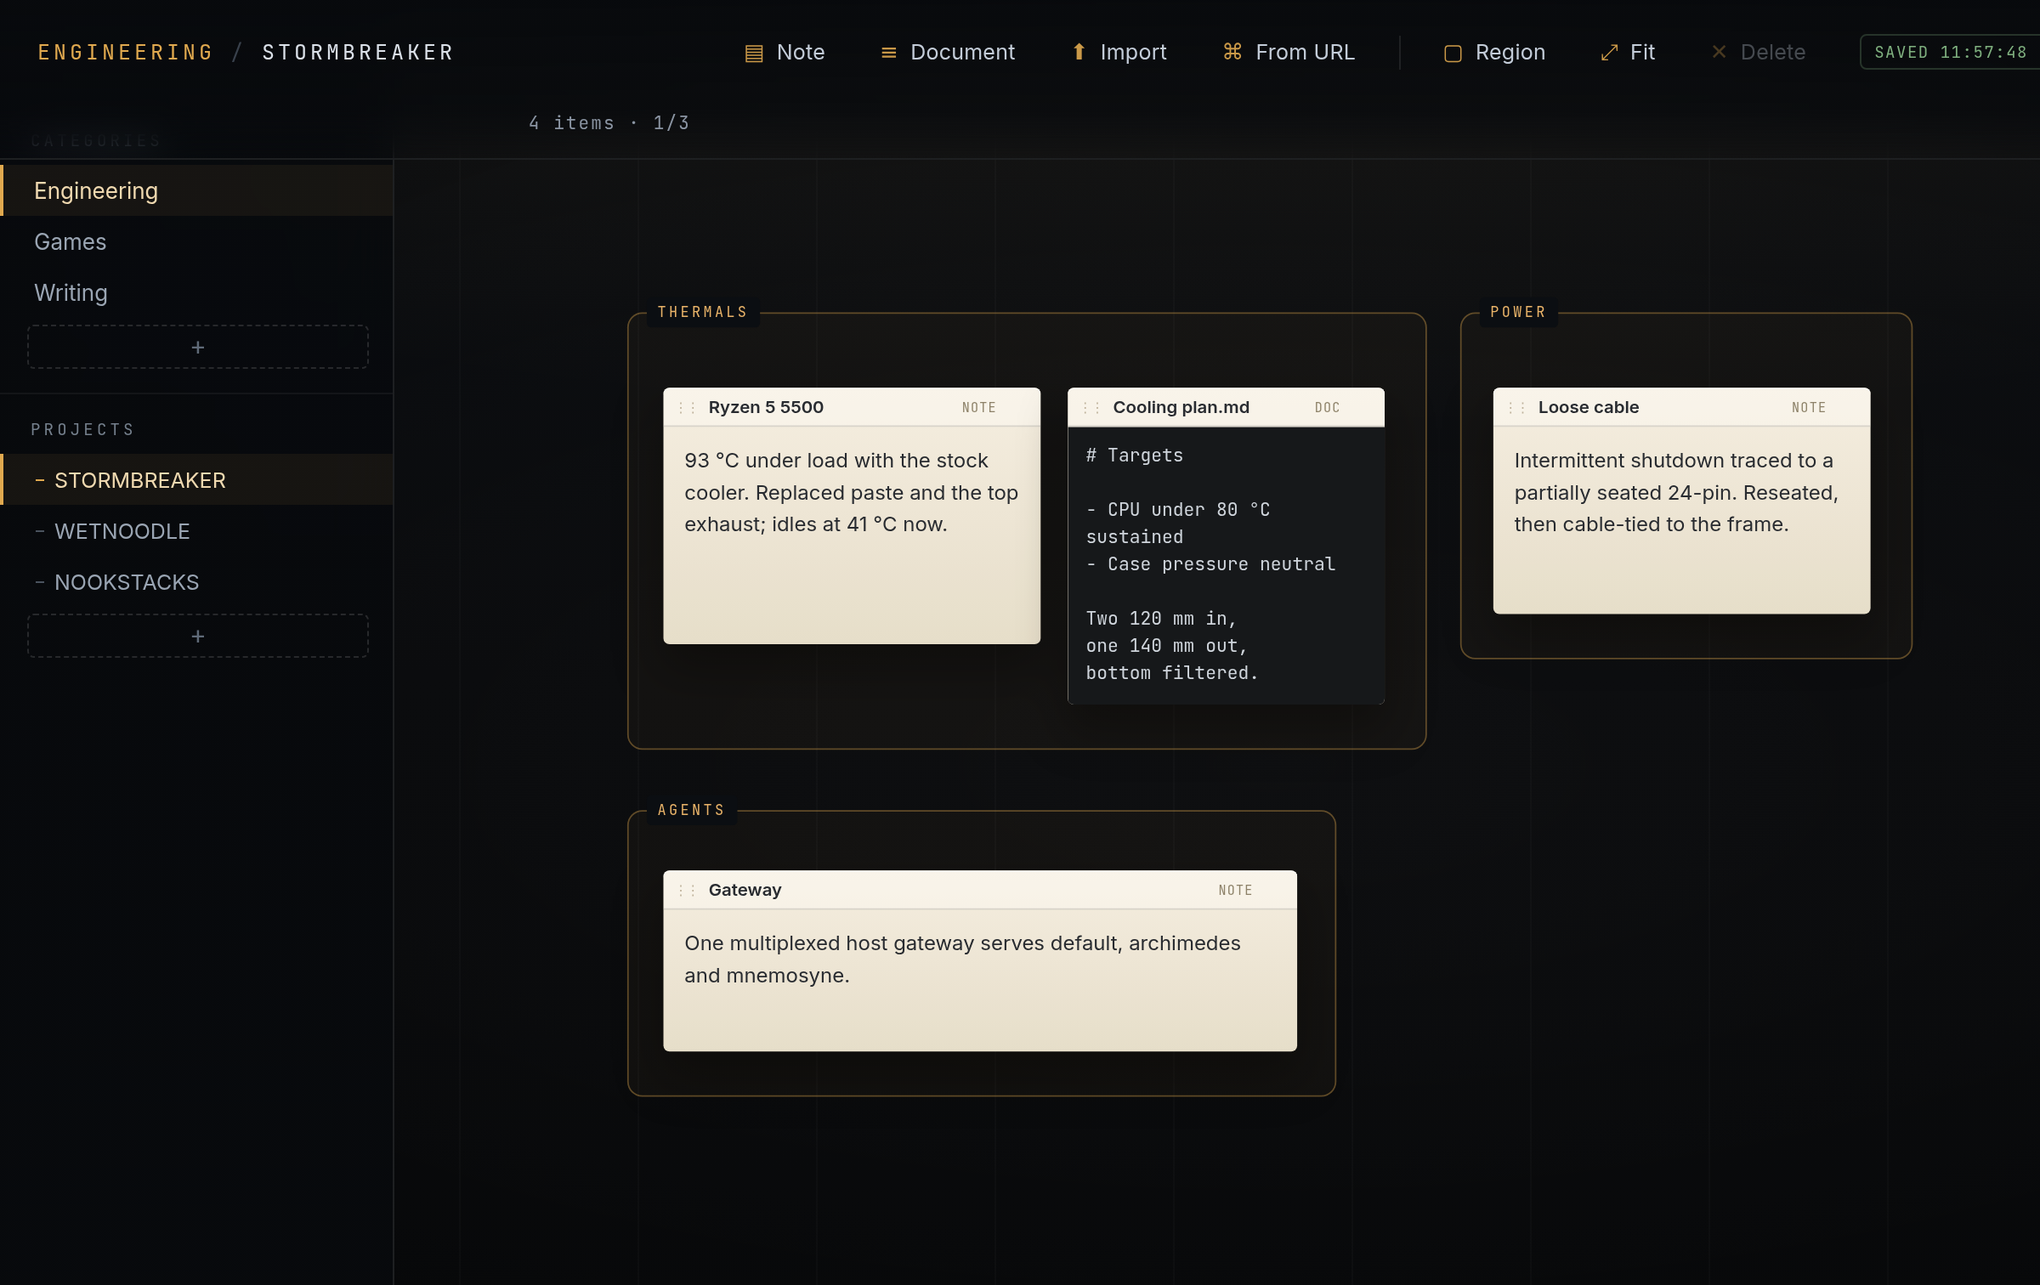
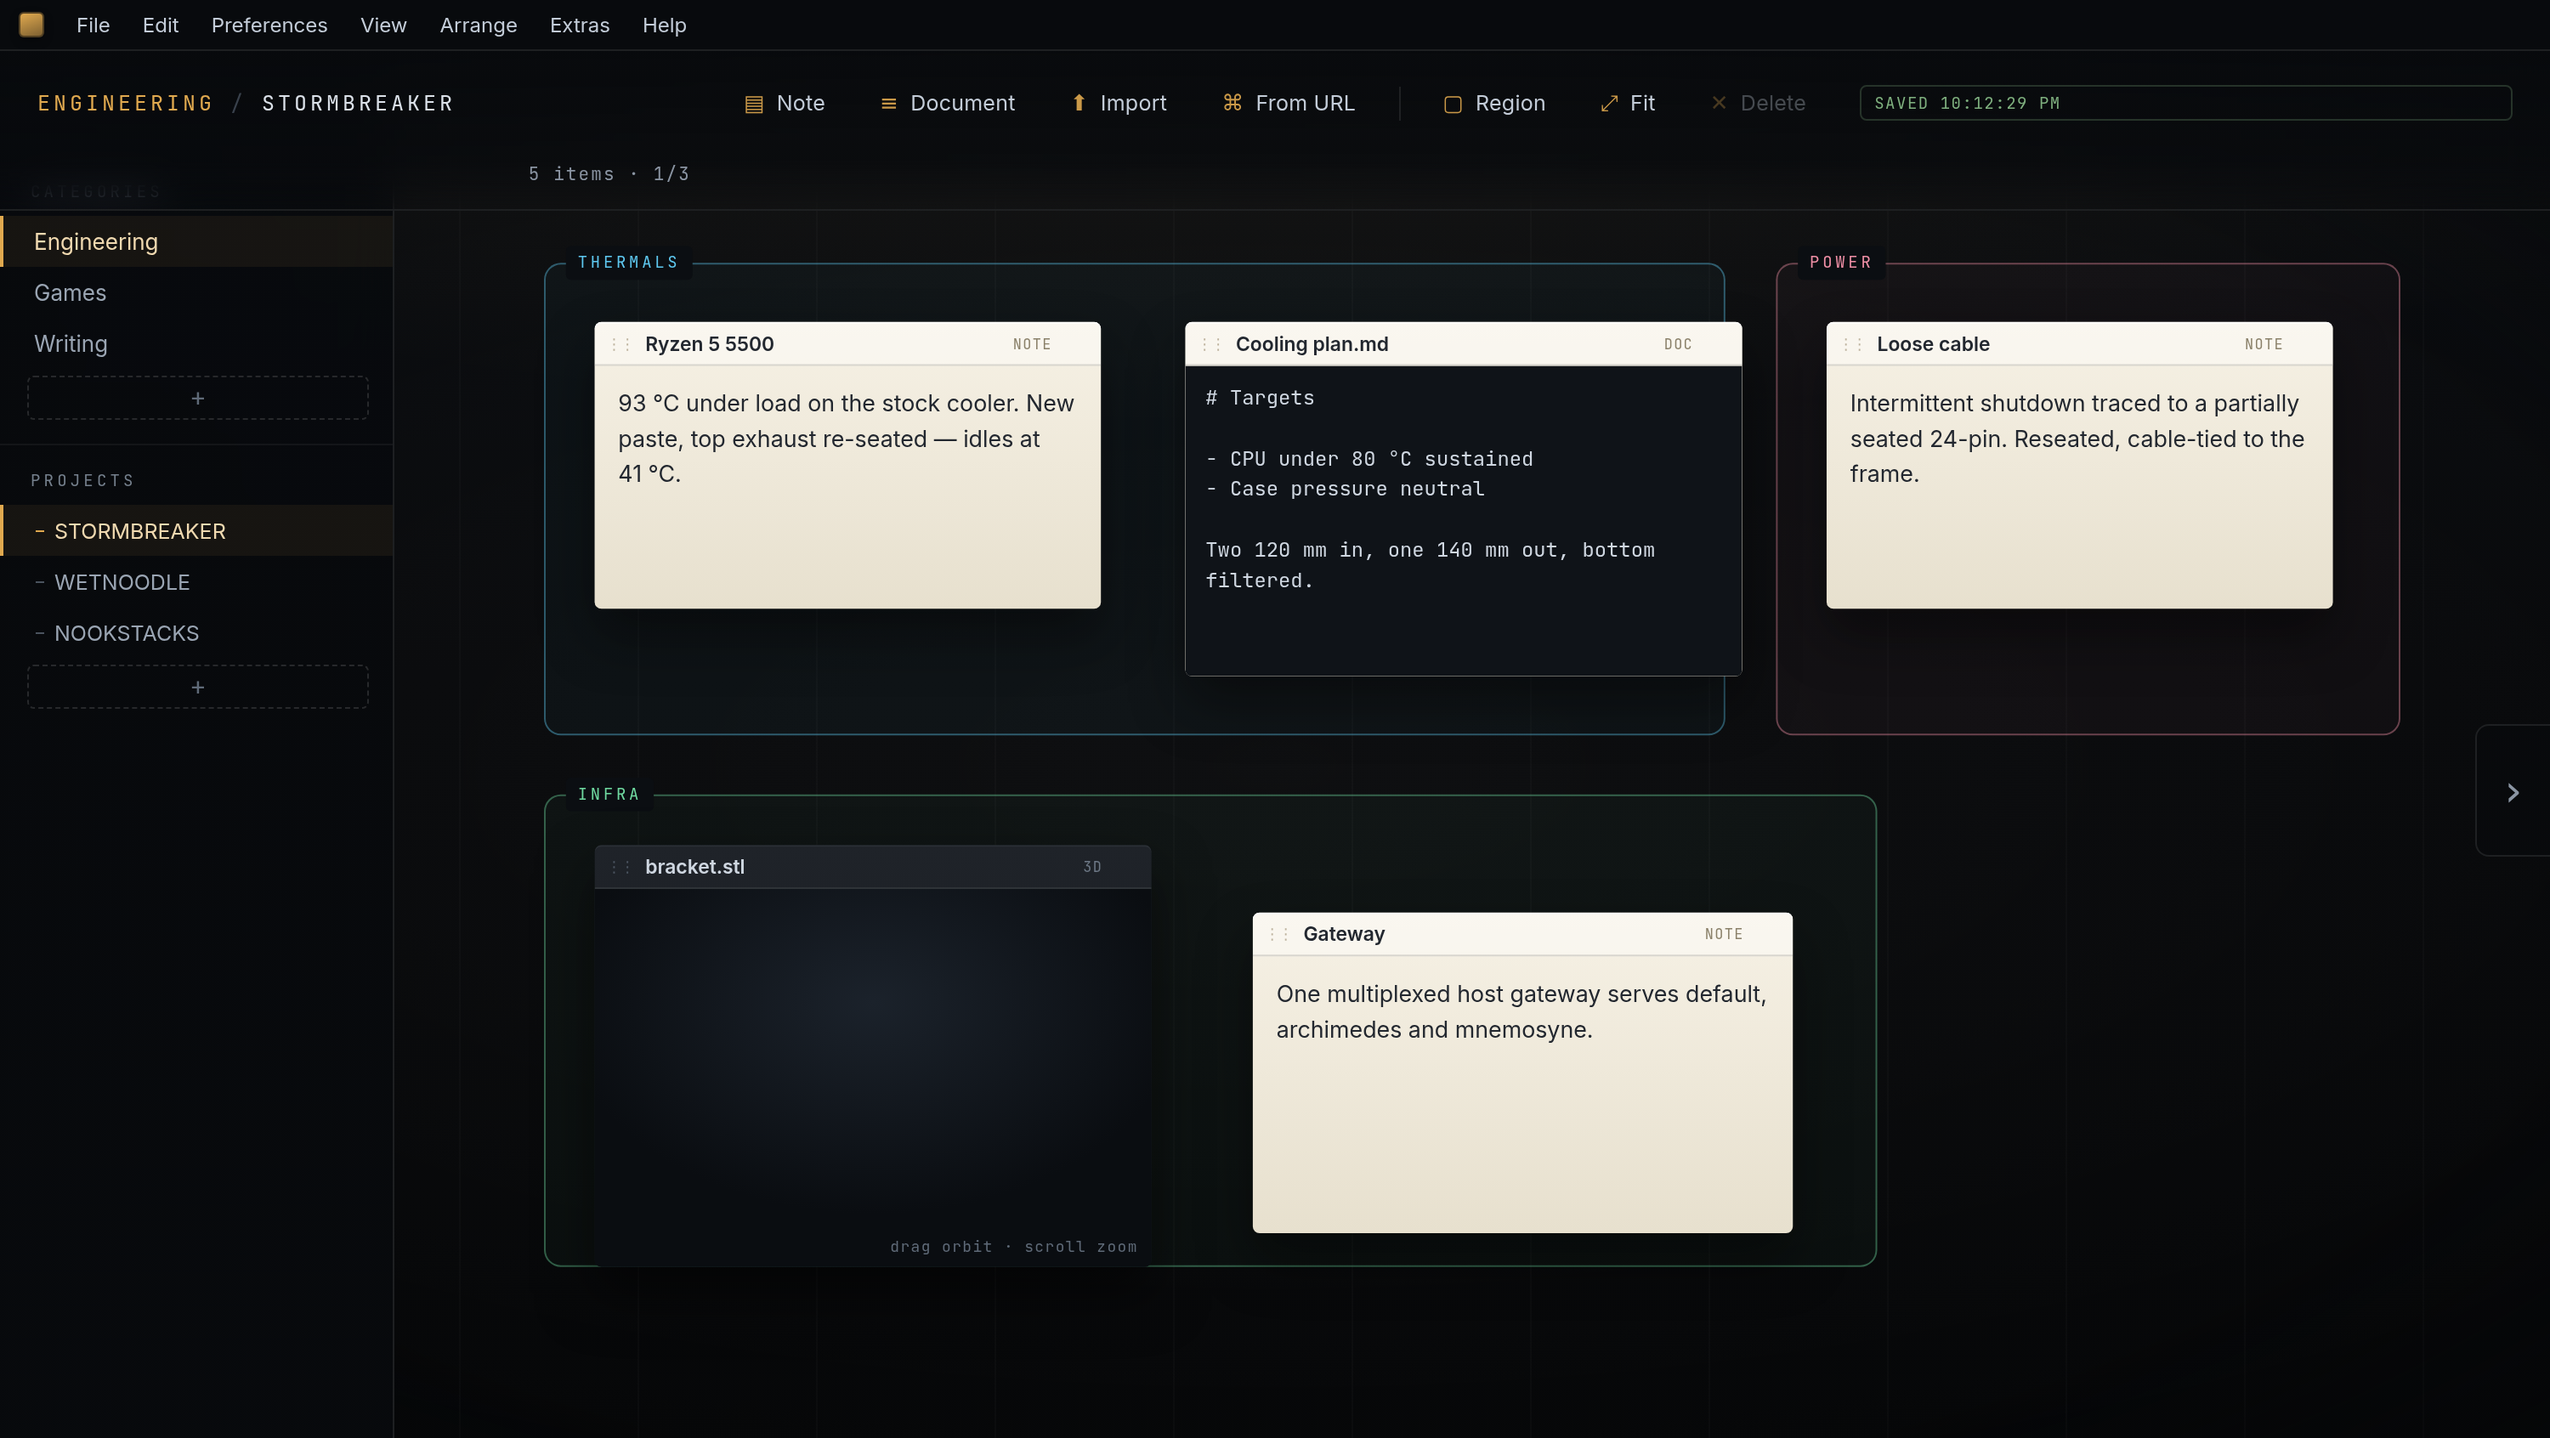
README: short and sweet, with screenshots
Cut the README from 228 lines to ~90: what it is, what's in it, regions, themes,
keys, install, build, data, licence. Refreshed the hero, themes and settings
screenshots against the current build and dropped the ones that no longer matched.

diff --git a/README.md b/README.md
@@ -1,227 +1,88 @@
 # Nookstacks
 
-![Nookstacks](docs/screenshot.png)
+A quiet place to put everything you're building.
 
-A tower of project bookshelves. Each category is a level, each level holds projects, each project is an infinite board where you place documents — notes, code, PDFs, images, video, 3D models — anywhere, at any size, and edit the text ones in place.
+Categories stack into projects, projects open onto an infinite board, and the board
+holds whatever the work actually is — notes, documents, drawings, PDFs, 3D models,
+audio, links, and the coloured regions that group them.
 
-Local only. No account, no sync service, no telemetry. Your board is a directory on your disk that you can back up, copy between machines, or open with a text editor.
+![The board](docs/screenshot.png)
 
-Windows and Linux.
+## What's in it
 
-## Install
+- **Cards for anything** — notes, markdown documents, images, PDFs, audio, video, 3D models (STL/OBJ) and plain files, each with the viewer it deserves.
+- **Regions** — coloured frames that group part of a board. They sit *behind* their contents, so you work inside one as if it weren't there; drag the tab and the region moves.
+- **Select in bulk** — click, `Ctrl`-click, `Shift`-click, or drag a box over the board. Whatever is selected moves together, cards and regions alike.
+- **Menus built per thing** — a note edits and copies its text, a model frames and wireframes, media plays and loops, a region recolours, the empty board makes new things.
+- **A file, not a service** — one folder of JSON and blobs, autosaved, 40 rolling backups, 80 steps of undo. No account, no sync, no network.
 
-Grab the installer for your system from [Releases](../../releases).
+## Regions
 
-**Windows** — run `Nookstacks_*_x64-setup.exe`. It installs per-user, so no administrator rights are needed. The `.msi` is there if you prefer MSI deployment.
+A region is a coloured frame that groups part of a board — thermals, power, infra.
+It never takes a click, so everything inside stays usable, and its tab is the
+handle: drag it and the region (with anything else selected) moves. Eight colours,
+right-click to pick one.
 
-**Linux** — take the `.AppImage`, make it executable, run it:
-
-```bash
-chmod +x Nookstacks_*.AppImage
-./Nookstacks_*.AppImage
-```
-
-Or use the `.deb` / `.rpm` for your distribution's package manager. Both pull in `libwebkit2gtk-4.1`, which the app renders with.
-
-## Where your data lives
-
-| OS | Path |
-|---|---|
-| Windows | `%APPDATA%\Nookstacks\vault` |
-| Linux | `~/.local/share/Nookstacks/vault` |
-
-Inside is the whole board:
-
-```
-state.json          every level, project, region and document
-state.json.bak      the previous save
-history/            rolling snapshots, the last 40 saves
-blobs/              imported files, one file per import
-```
-
-Saves are atomic — written to a temp file, fsynced, then renamed — so an interrupted write can't corrupt `state.json`. Set `NOOKSTACKS_VAULT=/some/path` to keep the vault somewhere else, such as a synced folder.
-
-## Using it
-
-| | |
-|---|---|
-| `↑` `↓` | change level |
-| `←` `→` | change project |
-| `N` | new note where the cursor is |
-| `G` | draw a region around things |
-| double-click a category or project name | rename it in place — `Enter` keeps, `Esc` cancels |
-| `S` | open settings |
-| `Ctrl+Z` / `Ctrl+Shift+Z` | undo / redo (80 steps) |
-| `Ctrl+C` / `Ctrl+X` / `Ctrl+V` | copy, cut, paste the selected card |
-| `Esc` | close the settings panel, cancel a region, deselect |
-| double-click a note | edit it, click away to save |
-| click + drag on empty board | draw a selection box; everything it touches is selected |
-| drag a region's tab | move that region, and anything else selected with it |
-| `Ctrl` + click a region tab | add the region to the selection |
-| `Ctrl`/`⌘` + click a card | add it to the selection, click again to drop it |
-| `Shift` + click a card | add it to the selection without toggling |
-| `Ctrl+A` | select every card on the board |
-| right-drag on empty board | pan the board |
-| wheel | zoom; over a scrollable document or a model, it scrolls or zooms that instead |
-| double-click a model | nothing — drag to orbit, wheel to zoom |
-
-### Regions
-
-A region is a frame drawn **behind** its contents and it never takes a click, so every card inside one stays fully usable — you can select, drag, edit, right-click and open things inside a region exactly as if it were not there.
-
-The **tab is the handle**: click it to select the region, drag it to move the region (bringing every other selected region and card with it), `Ctrl`-click several tabs to select them together, double-click the tab to rename it, or right-click it for the region menu. The corner handles resize it, and the ✕ or `Delete` removes the selected regions while leaving the cards inside them alone.
-
-Each region carries its own colour. Right-click → **Colour** opens eight swatches — amber, sky, mint, rose, violet, lime, orange, slate — and applies the choice to every selected region at once. The colour is stored with the region, so it survives a restart and travels inside an exported `.nks` board.
-
-![A region's Colour menu](docs/region-colour.png)
-
-### Selecting
-
-One click selects a card. `Ctrl`-click (or `⌘`-click) adds or removes one card, `Shift`-click adds without toggling, and dragging a box on empty board selects everything the box touches — the way the desktop picks up icons. Dragging any card in a selection moves the whole set — including any selected regions, so a card and its frame stay together — and Delete, Cut, Copy, Duplicate, Bring to front, Send to back and Centre all work on the selection rather than on one card.
-
-The board itself moves with **right-drag on empty canvas** only, so the left button is free for selecting and moving cards.
-
-![Drag a box to select](docs/selecting.png)
-
-### Right-click menus
-
-Right-clicking a card, a region or empty board opens a menu built for that thing:
-
-- **notes** — edit, copy the text, then cut/copy/duplicate/rename/z-order/delete
-- **documents** — edit, copy the text, save a copy
-- **images, PDFs, plain files** — open in a viewer over the board, save a copy
-- **3D models** — frame the model, reset the view, toggle wireframe
-- **video and audio** — play/pause, loop, open the player
-- **links** — open, copy the link
-- **regions** — rename, select the cards inside, fit to the region, delete
-- **empty board** — new note or document, paste, select all, fit, tidy, zoom, settings
-
-Every card menu also carries the clipboard and arrangement commands with their shortcuts shown on the right.
-
-![The menu for a 3D model](docs/context-menu.png)
+![A region and its colour menu](docs/region-colour.png)
 
 ## Themes
 
-Sixteen palettes ship with it, and each is only a set of colour tokens, so nothing in the interface needs to know a theme exists: **Obsidian** (near-black and amber), **Manuscript** (warm parchment), **Graphite** (steel blue), **Daylight** (light chrome, warm paper), **Electro** (electric cyan), **Lava** (molten orange), **Meadow** (grassy green), **Ocean** (deep teal), **Sakura** (plum and blossom pink), **Terminal** (phosphor green on black), **Ember** (dark wood and copper), **Neon** (synthwave magenta), **Iris** (violet dusk), **Mono** (high-contrast black and white), **Frost** (icy light blue) and **Sand** (desert light).
+Sixteen palettes — Obsidian, Manuscript, Graphite, Daylight, **Electro**, **Lava**,
+**Meadow**, **Ocean**, **Sakura**, **Terminal**, **Ember**, **Neon**, **Iris**,
+**Mono**, **Frost**, **Sand** — plus a **Custom** theme you build from five colours.
 
-**Custom** builds a theme from five colours you pick — background, surfaces, paper, text and accent. The rest of the tokens are derived from them (borders, muted greys, paper ink, hover states), so the result stays coherent. *Copy from* seeds those five from any built-in theme as a starting point.
+![Six of the sixteen themes](docs/themes.png)
 
-![Six of the themes](docs/themes.png)
+![Themes and settings](docs/settings.png)
 
-## The menu bar
+## Keys
 
-File, Edit, Preferences, View, Arrange, Extras and Help, along the top of the window — `Alt` + the first letter opens one, arrows walk it, `Enter` runs it.
+| | |
+|---|---|
+| `↑ ↓` / `← →` | change category / project |
+| `N` / `T` | new note / new document |
+| `G` | draw a region |
+| `F` | fit the board · `Ctrl` `+` `−` `0` zoom |
+| `Ctrl+Z` / `Ctrl+Shift+Z` | undo / redo |
+| `Ctrl+C` `X` `V` `D` | copy, cut, paste, duplicate |
+| `Ctrl+A` / `Del` | select all / delete |
+| right-drag | pan the board |
+| `S` | settings |
 
-- **File** — new note or document, import files, place from a URL, open a `.nks` board, export this board or the whole tower, quit
-- **Edit** — undo, redo, cut, copy, paste, duplicate, select all, delete, rename the project or the category
-- **Preferences** — preferences panel, theme, text size, export/import settings
-- **View** — fit, zoom in/out/actual size, board grid, reduce motion, show sidebar
-- **Arrange** — bring to front, send to back, tidy the board, centre the selection
-- **Extras** — open or copy the vault path, board info
-- **Help** — keyboard shortcuts, README, about
+## Install
 
-![The File menu](docs/menu-file.png)
+**Windows** — run `Nookstacks_0.1.0_x64-setup.exe`; it installs per-user, no admin needed.
 
-## Boards as files: `.nks`
+**Linux** — install the `.deb` (it pulls in `libwebkit2gtk-4.1`).
 
-A `.nks` file is one board, or the whole tower, in a single file you can email, back up or carry between machines.
-
-**File → Export this board…** (`Ctrl+Shift+E`) writes a bundle of the project you're on: its regions, its documents, and every file attached to them. **File → Export all projects…** does the same for everything.
-
-**File → Open board…** (`Ctrl+O`) reads one back. A single board arrives as a new project beside the one you're on; a whole-tower bundle asks first, then replaces what's open (your previous state stays in `vault/history`).
-
-Under the hood it's a zip:
-
-```
-nookstacks.json     format id, version, scope, name, which blobs are inside
-state.json          the board itself
-blobs/<hash>        every attached file, addressed by content hash
-```
-
-Blobs are keyed by hash and nothing in the state is an absolute path, so a board exported on Windows opens on Linux with nothing to relink. Importing twice does not duplicate the attached files, and a bundle from a newer Nookstacks is refused rather than half-read.
-
-**Preferences → Export settings… / Import settings…** does the same for just your preferences, as a small JSON file.
-
-## Settings and themes
-
-Click **⚙ Settings** at the bottom of the sidebar, or press `S`.
-
-**Themes** — the whole interface is drawn from one set of colour tokens, so a theme is a palette swap and every surface follows it:
-
-- **Obsidian** — near-black, amber accent, cream paper. The default.
-- **Manuscript** — warm browns and parchment, for long evenings.
-- **Graphite** — cool neutral with a steel-blue accent.
-- **Daylight** — light chrome and warm paper, for a bright room or a projector.
-
-![Settings](docs/settings.png)
-
-**Text size** — S / M / L, scaling card titles, note text and code.
-
-**Board grid** — turn the dotted grid off for a cleaner canvas.
-
-**Reduce motion** — disables board travel animation and zooming transitions. The app also honours your system's reduced-motion preference when this is left at Off.
-
-**Fit** frames every card and region on the shelf, however far it sits from the centre — park something 5000 px away and Fit zooms out until it is on screen too.
-
-**Tidy board** packs the shelf into balanced columns using each card's real width and height, and treats a region as one unit: its cards stack inside it and the region is measured to wrap them, so tidying cannot leave a card half in and half out. Shortest column wins, and the order the cards already read in is kept.
-
-**Undo** keeps the last 80 states of the board, so a tidy, a drag or a deletion is one `Ctrl+Z` away; typing in a note is coalesced into a single step. Copy and paste work on cards, and a pasted card shares the underlying file rather than duplicating it.
-
-**Board data → Open folder** — opens the vault directory in your file manager, so backups are one click away.
-
-Your choices are stored in `state.json` alongside the board, under `settings`, so they travel with the vault and survive reinstalls. **Reset to defaults** puts everything back to Obsidian, M, grid on, motion on.
-
-<p align="center">
-  <img src="docs/theme-manuscript.png" width="49%" alt="Manuscript theme">
-  <img src="docs/theme-graphite.png" width="49%" alt="Graphite theme">
-  <img src="docs/theme-daylight.png" width="49%" alt="Daylight theme">
-</p>
-
-## Build from source
-
-You need Rust 1.77 or newer. Then:
+**Browser** — the interface is plain HTML/CSS/JS over a small Python server:
 
 ```bash
-cd src-tauri
-cargo build --release
+python3 dev/server.py 8787        # http://localhost:8787
 ```
 
-On Linux you also need the WebKit headers:
+## Build your own installers
+
+Rust 1.77+ and the [Tauri CLI](https://tauri.app), plus `libwebkit2gtk-4.1-dev`,
+`libgtk-3-dev`, `librsvg2-dev` and `patchelf` on Linux.
 
 ```bash
-sudo apt install libwebkit2gtk-4.1-dev libgtk-3-dev librsvg2-dev patchelf
+cargo tauri build --bundles nsis   # Windows
+cargo tauri build --bundles deb    # Linux
 ```
 
-Installers:
+Output lands in `src-tauri/target/release/bundle/`.
 
-```bash
-cargo install tauri-cli --version "^2"
-cd src-tauri && cargo tauri build
-```
-
-Output lands in `src-tauri/target/release/bundle/`. On Linux that's `deb/`, `rpm/` and `appimage/`; on Windows, `nsis/` and `msi/`. Each OS builds its own installers — CI does both in `.github/workflows/build.yml`, and pushing a `v*` tag publishes them to a draft release.
-
-## How it's put together
-
-The same web bundle runs in two shells:
+## Your data
 
 ```
-web/                 the entire interface, plain ES modules, no build step
-web/style.css        layout, driven entirely by colour tokens
-web/themes.css       the palettes: one block of variables per theme
-src-tauri/           the desktop shell: Rust, file system, installers
-dev/server.py        a small HTTP server with the same API, for browser dev
+state.json     every category, project, region and card
+history/       the last 40 saves
+blobs/         imported files, one per import
 ```
 
-`web/app.js` has one storage interface (`vault`) with two implementations. Inside the Tauri window it calls Rust over IPC; in a browser it calls `/api/*` on the dev server. Both write the identical on-disk format, so a vault is portable between the app and the dev server.
-
-Three.js, the `.blend` parser and the Zstandard decoder are vendored under `web/vendor/`, so there is no `npm install` and no bundler anywhere in the build.
-
-Working on the interface without rebuilding Rust:
-
-```bash
-python3 dev/server.py 8787   # then open http://localhost:8787
-```
+Windows: `%APPDATA%\Nookstacks\vault` · Linux: `~/.local/share/Nookstacks/vault`.
+Set `NOOKSTACKS_VAULT` to keep it somewhere else, like a synced folder.
 
 ## License
 
